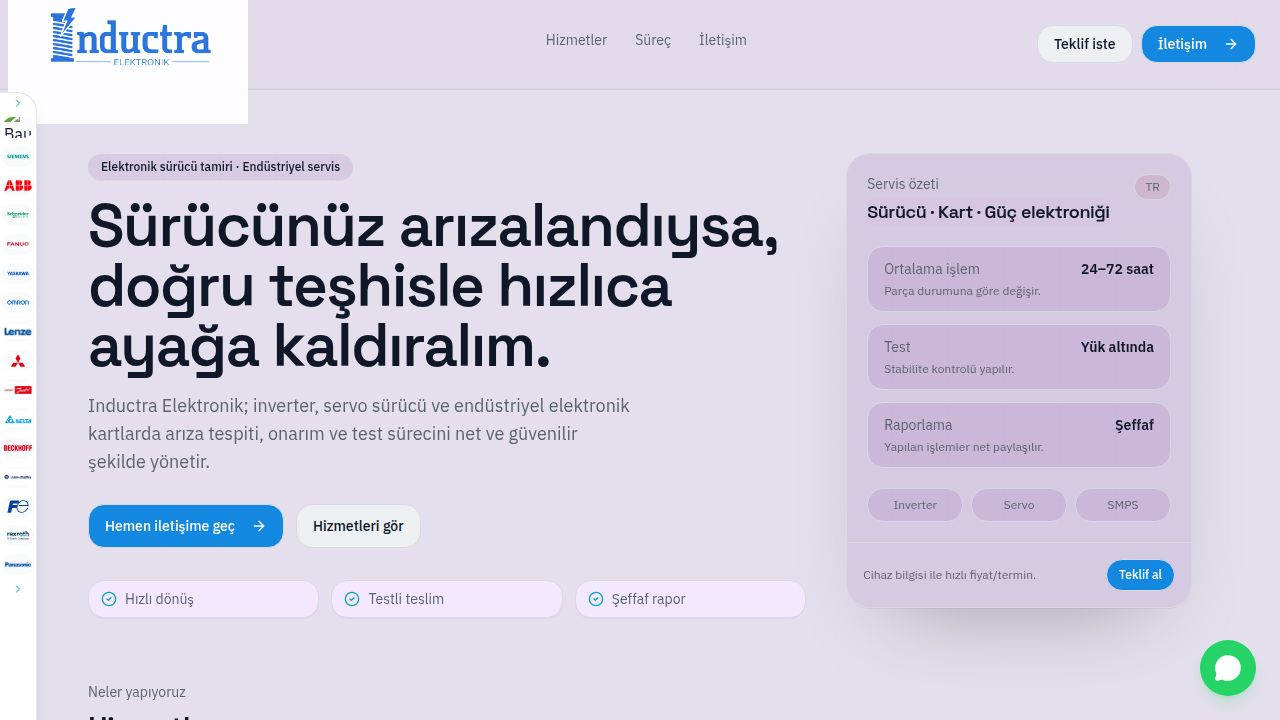
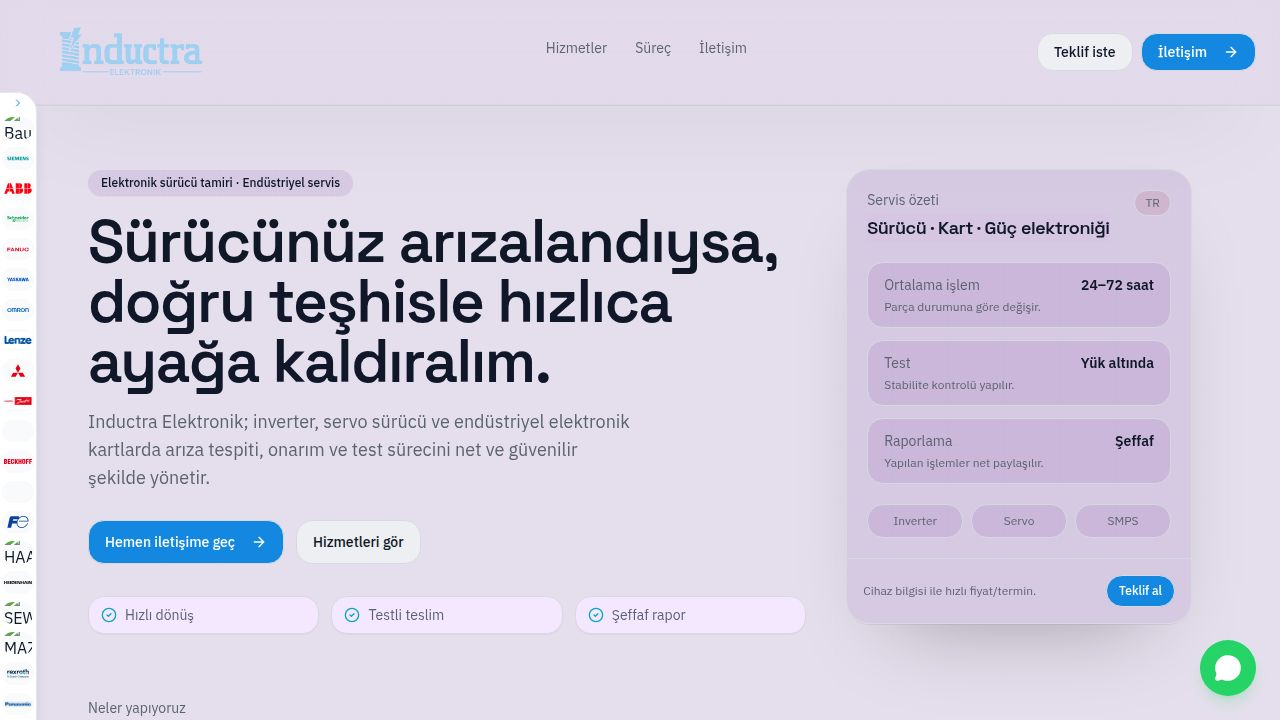
Update website styles and add new brand partners
Apply new CSS for animated elements and glowing effects, update brand data with new entries, and adjust card styling for a refined user interface.

Replit-Commit-Author: Agent
Replit-Commit-Session-Id: 371f6235-2fde-4516-bc43-82dd514ff68f
Replit-Commit-Checkpoint-Type: full_checkpoint
Replit-Commit-Event-Id: 3e49895c-65a6-4979-88ca-233cd4bec938
Replit-Commit-Screenshot-Url: https://storage.googleapis.com/screenshot-production-us-central1/220fef12-6025-4ca4-92d5-d8870d5c7179/371f6235-2fde-4516-bc43-82dd514ff68f/KzZT3UL
Replit-Helium-Checkpoint-Created: true

diff --git a/client/src/pages/home.tsx b/client/src/pages/home.tsx
@@ -48,6 +48,10 @@ const BRANDS = [
   { name: "Beckhoff", color: "#E30613", logo: "https://cdn.worldvectorlogo.com/logos/beckhoff-logo.svg" },
   { name: "Allen Bradley", color: "#000000", logo: "https://seekvectorlogo.net/wp-content/uploads/2019/02/allen-bradley-vector-logo.png", scale: 1.5 },
   { name: "Fuji", color: "#E60012", logo: "https://www.logo.wine/a/logo/Fuji_Electric/Fuji_Electric-Logo.wine.svg" },
+  { name: "HAAS", color: "#E60012", logo: "https://images.seeklogo.com/logo-png/32/1/haas-logo-png_seeklogo-321914.png" },
+  { name: "Heidenhain", color: "#003366", logo: "https://upload.wikimedia.org/wikipedia/commons/5/5d/Heidenhain_2022_logo.svg" }
+  { name: "SEW", color: , logo: "https://images.seeklogo.com/logo-png/23/1/sew-eurodrive-logo-png_seeklogo-236154.png" }
+  { name: "MAZAK", color: "#E60012", logo: "https://images.seeklogo.com/logo-png/32/1/mazak-logo-png_seeklogo-321946.png" },
   { name: "Rexroth", color: "#003366", logo: "https://www.logo.wine/a/logo/Bosch_Rexroth/Bosch_Rexroth-Logo.wine.svg" },
   { name: "Panasonic", color: "#003366", logo: "https://w7.pngwing.com/pngs/432/765/png-transparent-logo-panasonic-phone-panasonic-service-center-panasonic-india-pvt-ltd-others-blue-text-innovation.png" }
 ];
@@ -281,20 +285,24 @@ function ProcessStepsGrid() {
   }, [totalSteps]);
 
   return (
-    <div className="grid grid-cols-2 gap-3 relative">
+    <div className="grid grid-cols-2 gap-3 relative auto-rows-fr">
       {STEPS.map((st, index) => {
         const isActive = activeIndex === index;
 
         return (
           <div key={st.title} className="relative">
             <Card
-              className={`step-card-border rounded-3xl border bg-card p-5 shadow-soft relative overflow-visible transition-all duration-300 ${
+              className={`step-card-border rounded-3xl border bg-card p-5 h-full shadow-soft relative overflow-visible transition-all duration-300 ${
                 isActive ? "active" : ""
               }`}
               data-testid={`card-step-${st.title}`}
             >
               <div className="flex items-start gap-4 relative z-10">
-                <div className="relative mt-0.5 rounded-2xl border bg-background p-2 text-primary overflow-hidden">
+                    <div
+                      className={`relative mt-0.5 h-10 w-10 shrink-0 flex items-center justify-center rounded-2xl border bg-background text-primary overflow-hidden
+                      ${isActive ? "icon-pulse" : ""}`}
+                    >
+
                   {st.title === "Arıza Tespiti" ? (
                     <div className="relative h-7 w-7 flex items-center justify-center">
                       <Microscope className="h-4 w-4 relative z-10" />

diff --git a/client/src/index.css b/client/src/index.css
@@ -373,16 +373,16 @@
     from var(--border-angle),
     transparent 0deg,
     transparent 60deg,
-    #22c55e 90deg,
-    #4ade80 120deg,
-    #22c55e 150deg,
+    #0284c7  90deg,
+    #38bdf8  120deg,
+    #0284c7  150deg,
     transparent 180deg,
     transparent 360deg
   );
   opacity: 0;
   z-index: -1;
   animation: spinBorder 1.5s linear infinite;
-  transition: opacity 0.3s ease;
+  transition: opacity 3s ease;
 }
 
 .step-card-border::after {
@@ -400,5 +400,67 @@
 
 /* Glow effect for active card */
 .step-card-border.active {
-  box-shadow: 0 0 25px 5px rgba(34, 197, 94, 0.15);
+  box-shadow: 0 0 25px 5px rgba(2, 132, 1, 0.15);
+}
+/* =========================================================
+   ACTIVE STEP ICON – SOFT MICRO PULSE
+   ========================================================= */
+
+/* Kart wrapper (zaten varsa sorun değil) */
+.step-card-border {
+  position: relative;
+}
+
+/* Aktif kart ikonu */
+.icon-pulse {
+  animation: micro-pulse 2.8s cubic-bezier(0.22, 1, 0.36, 1) infinite;
+  box-shadow:
+    0 0 10px rgba(14, 165, 233, 0.32),
+    0 0 22px rgba(14, 165, 233, 0.18);
+  will-change: transform, opacity;
+}
+
+/* Yumuşak pulse animasyonu */
+@keyframes micro-pulse {
+  0%, 100% {
+    transform: scale(1);
+    opacity: 0.92;
+  }
+  40% {
+    transform: scale(1.06);
+    opacity: 1;
+  }
+  60% {
+    transform: scale(1.06);
+    opacity: 1;
+  }
+}
+
+/* Soft halo ring (çok ince, sert değil) */
+.icon-pulse::after {
+  content: "";
+  position: absolute;
+  inset: -5px;
+  border-radius: inherit;
+  border: 1px solid rgba(14, 165, 233, 0.22);
+  filter: blur(0.6px);
+  animation: halo-ring 2.8s cubic-bezier(0.22, 1, 0.36, 1) infinite;
+}
+
+/* Halo nefes efekti */
+@keyframes halo-ring {
+  0%, 100% {
+    opacity: 0.25;
+  }
+  50% {
+    opacity: 0.55;
+  }
+}
+
+/* Erişilebilirlik – motion kapalıysa animasyon yok */
+@media (prefers-reduced-motion: reduce) {
+  .icon-pulse,
+  .icon-pulse::after {
+    animation: none;
+  }
 }

diff --git a/client/src/components/header-logo.tsx b/client/src/components/header-logo.tsx
@@ -33,7 +33,7 @@ export function HeaderLogo() {
       data-testid="button-logo-home"
     >
       <motion.div 
-        className="h-40 w-64 flex items-center justify-center overflow-hidden ml-2" 
+        className="h-40 w-64 flex items-center justify-center overflow-hidden ml-2 mt-4" 
         aria-hidden="true"
         initial={{ opacity: 1 }}
         animate={isFlickering ? {
